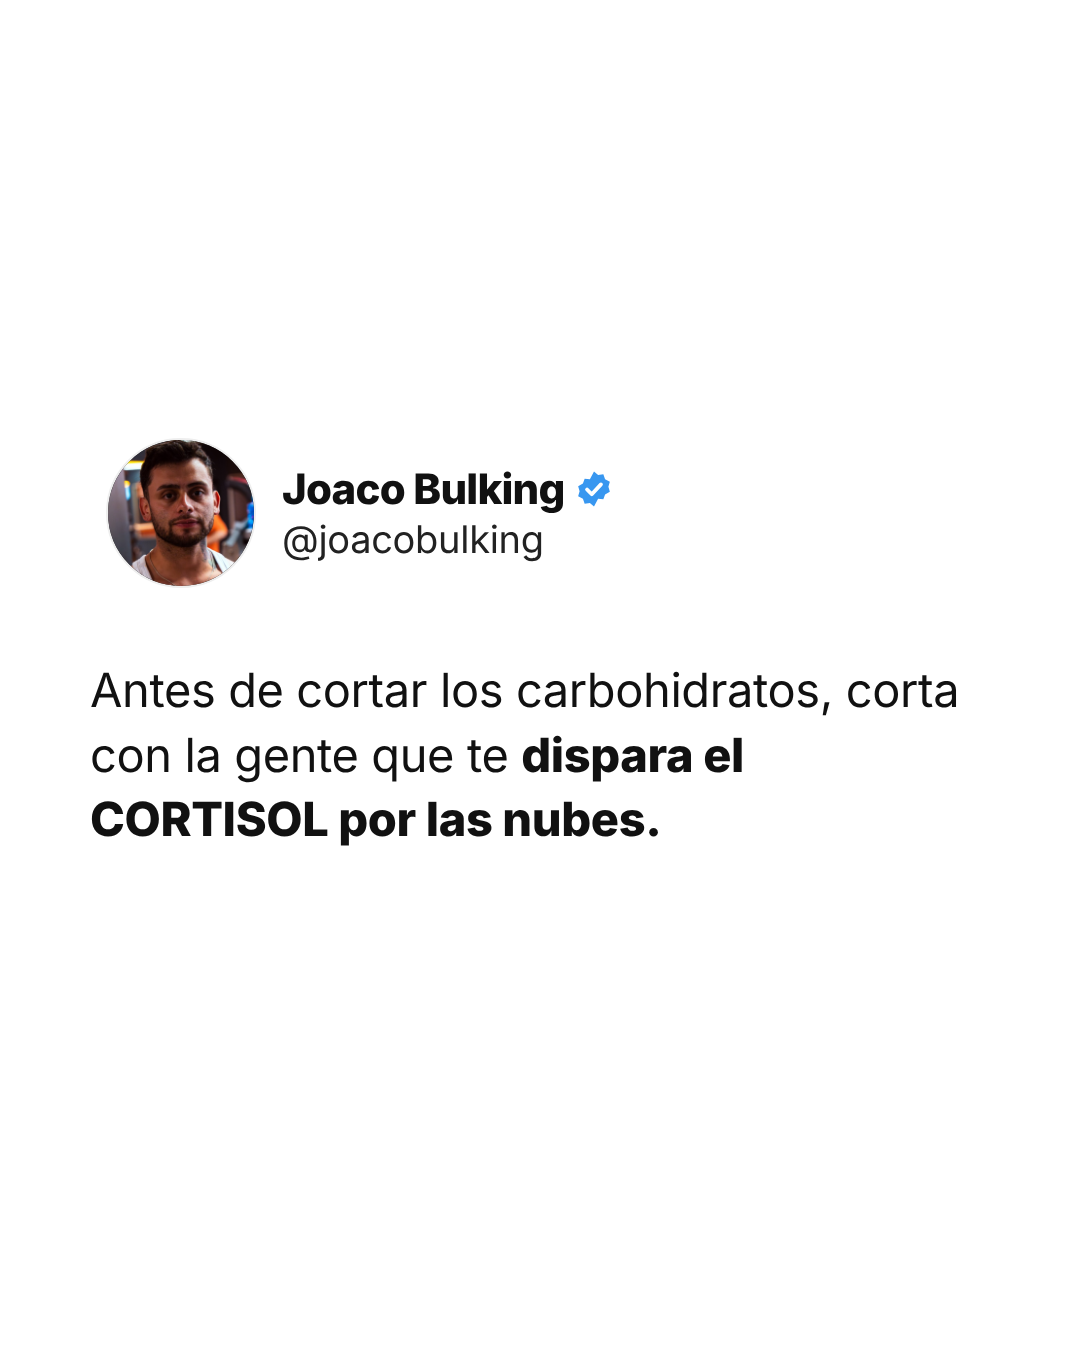
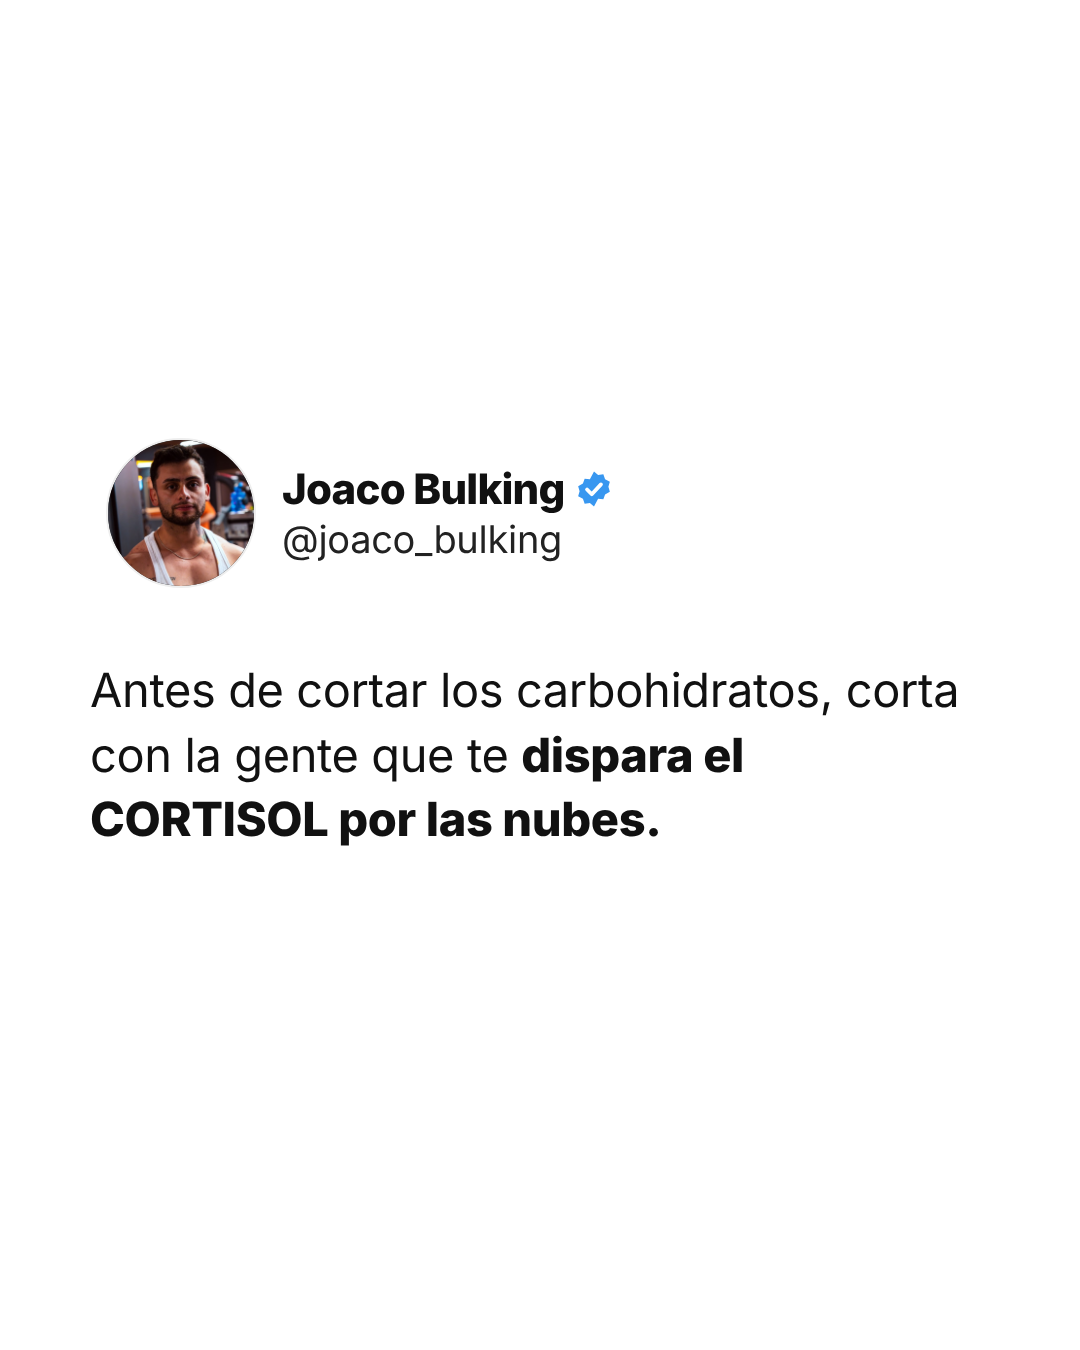
Ajustar encuadre de foto de perfil y usuario @joaco_bulking
Claude-Session: https://claude.ai/code/session_01CoBw7UrmLzFv47HBfQE2u3

Changed region(s): [[0.0917, 0.3111, 0.2444, 0.4356], [0.3972, 0.3733, 0.5194, 0.4356]]

diff --git a/post/post_tweet.html b/post/post_tweet.html
@@ -21,7 +21,7 @@
       <div class="name">Joaco Bulking
         <svg class="badge" viewBox="0 0 24 24"><path fill="#3897f0" d="M12 1l2.6 2.1 3.3-.4 1.1 3.1 3 1.6-.9 3.2.9 3.2-3 1.6-1.1 3.1-3.3-.4L12 23l-2.6-2.1-3.3.4-1.1-3.1-3-1.6.9-3.2-.9-3.2 3-1.6 1.1-3.1 3.3.4z"/><path fill="none" stroke="#fff" stroke-width="2.4" stroke-linecap="round" stroke-linejoin="round" d="M7.6 12.3l3 3 5.8-6.2"/></svg>
       </div>
-      <div class="handle">@joacobulking</div>
+      <div class="handle">@joaco_bulking</div>
     </div>
   </div>
   <div class="txt">Antes de gastar en el pre-entreno más caro, intenta dormir más de 6 horas. <b>Ningún suplemento arregla <span style="white-space:nowrap">una MALA NOCHE.</span></b></div>

diff --git a/post/post_cortisol.html b/post/post_cortisol.html
@@ -21,7 +21,7 @@
       <div class="name">Joaco Bulking
         <svg class="badge" viewBox="0 0 24 24"><path fill="#3897f0" d="M12 1l2.6 2.1 3.3-.4 1.1 3.1 3 1.6-.9 3.2.9 3.2-3 1.6-1.1 3.1-3.3-.4L12 23l-2.6-2.1-3.3.4-1.1-3.1-3-1.6.9-3.2-.9-3.2 3-1.6 1.1-3.1 3.3.4z"/><path fill="none" stroke="#fff" stroke-width="2.4" stroke-linecap="round" stroke-linejoin="round" d="M7.6 12.3l3 3 5.8-6.2"/></svg>
       </div>
-      <div class="handle">@joacobulking</div>
+      <div class="handle">@joaco_bulking</div>
     </div>
   </div>
   <div class="txt">Antes de cortar los carbohidratos, corta con la gente que te <b>dispara el CORTISOL <span style="white-space:nowrap">por las nubes.</span></b></div>

diff --git a/post/post.html b/post/post.html
@@ -28,7 +28,7 @@
       <div class="name">Joaco Bulking
         <svg class="badge" viewBox="0 0 24 24"><path fill="#3897f0" d="M12 1l2.6 2.1 3.3-.4 1.1 3.1 3 1.6-.9 3.2.9 3.2-3 1.6-1.1 3.1-3.3-.4L12 23l-2.6-2.1-3.3.4-1.1-3.1-3-1.6.9-3.2-.9-3.2 3-1.6 1.1-3.1 3.3.4z"/><path fill="none" stroke="#fff" stroke-width="2.4" stroke-linecap="round" stroke-linejoin="round" d="M7.6 12.3l3 3 5.8-6.2"/></svg>
       </div>
-      <div class="handle">@joacobulking</div>
+      <div class="handle">@joaco_bulking</div>
     </div>
   </div>
   <div class="body">

diff --git a/post/post_genetica.html b/post/post_genetica.html
@@ -28,7 +28,7 @@
       <div class="name">Joaco Bulking
         <svg class="badge" viewBox="0 0 24 24"><path fill="#3897f0" d="M12 1l2.6 2.1 3.3-.4 1.1 3.1 3 1.6-.9 3.2.9 3.2-3 1.6-1.1 3.1-3.3-.4L12 23l-2.6-2.1-3.3.4-1.1-3.1-3-1.6.9-3.2-.9-3.2 3-1.6 1.1-3.1 3.3.4z"/><path fill="none" stroke="#fff" stroke-width="2.4" stroke-linecap="round" stroke-linejoin="round" d="M7.6 12.3l3 3 5.8-6.2"/></svg>
       </div>
-      <div class="handle">@joacobulking</div>
+      <div class="handle">@joaco_bulking</div>
     </div>
   </div>
   <div class="body">
